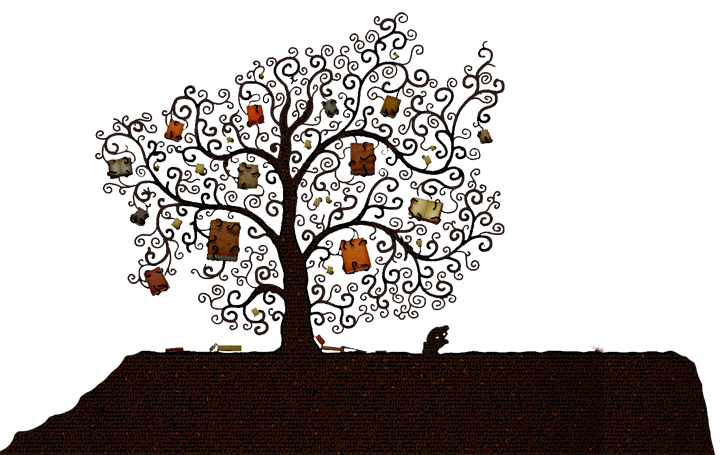
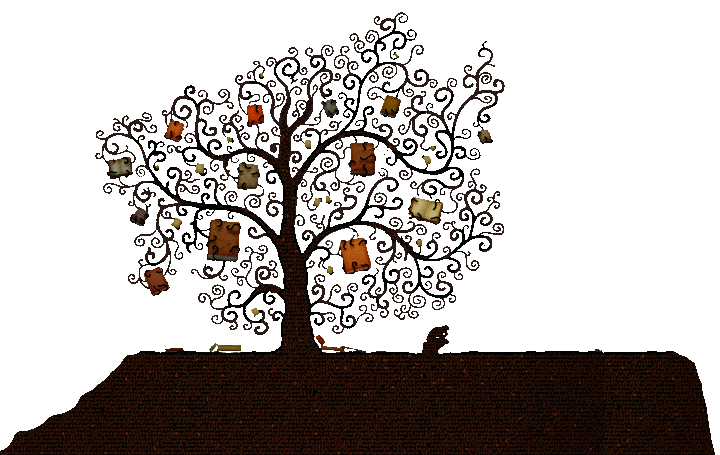
home page animation done

Changed region(s): [[0.1222, 0.0308, 0.7028, 0.7692], [0.3056, 0.7692, 0.3361, 0.8]]

diff --git a/assets/css/styles.css b/assets/css/styles.css
@@ -4,9 +4,10 @@ body {
     height: 98%;
     overflow: hidden;
     font-family: "Arial", sans-serif;
-    background: url('../images/background.jpg');
-    background-repeat: repeat;
+    /*background-image: url('../images/background.jpg');*/
+    /*background-repeat: repeat;*/
     display: none;
+
 }
 
 #footer {
@@ -79,6 +80,7 @@ a:active {
 
 #catchphrase {
     line-height: 1;
+    opacity: 0;
 }
 
 #logo .panel {
@@ -88,19 +90,24 @@ a:active {
 
 #logopic{
     height: auto;
+    /*display: none;*/
 }
 
 #sky .panel {
-    right: -5%;
+    /*right: -5%;*/
+    /*left: 630px;*/
     top: -10%;
     width: 100%;
     height: 120%;
     opacity: 0.8;
+    /*display: none;*/
 }
 
 #tree .panel {
     right: -10%;
-    bottom: -10%;
+    bottom: -120%;
+    /*top:600px;*/
+    /*position: absolute;*/
     width: 150%;
 }
 
@@ -125,7 +132,8 @@ a:active {
 
 ul#menu {
     position: absolute;
-    right: 0%;
+    /*right: 0%;*/
+    right: -490px;
     top: 20px;
     list-style-type: none;
     padding: 5px;
@@ -137,7 +145,8 @@ ul#menu {
 
 #menu_overlay {
     position: absolute;
-    right: 0;
+    /*right: 0;*/
+    right: -490px;
     top: 10px;
     height: 80px;
     width: 100%;
@@ -388,8 +397,8 @@ ul.wi-container li.wi-move {
 }
 
 /*#slogan_text,#slogan_text_hard {*/
-    /*font-size: 80px;*/
-    /*line-height: 120px;*/
+/*font-size: 80px;*/
+/*line-height: 120px;*/
 /*}*/
 
 .spinner {

diff --git a/assets/js/indexpage.js b/assets/js/indexpage.js
@@ -32,9 +32,26 @@ var hard_game_img_array = ["assets/images/hard/serious_games_ppt_hard_Page_1.jpg
 //For easy game intro Bookblock Array End
 
 
-
 $(function () {
-    $('body').fadeIn(5000);
+
+    $('#logopic').hide();
+    $('#sky .panel').css('left','670px');
+    $('body').css("background-image","url('assets/images/background.jpg')").fadeIn(3000);
+    setTimeout(function(){
+        $('#logopic').fadeIn(5000);
+    },2000,setTimeout(function(){
+        $('#sky .panel').animate({left: '0px'}, 2000);
+    },4000),setTimeout(function(){
+        $("#tree").animate({top:'-109%'}, 1000);
+        $('#menu_overlay').animate({right: '0px'}, 2000);
+        $('#menu').animate({right: '0px'}, 2000);
+    },6000),setTimeout(function(){
+        $('#catchphrase').hatchShow('catchphrase');
+        $('#catchphrase').animate({opacity: 1}, 1000);
+    },8000));
+
+
+
 
     $(".close_parallax_btn").hide();
 
